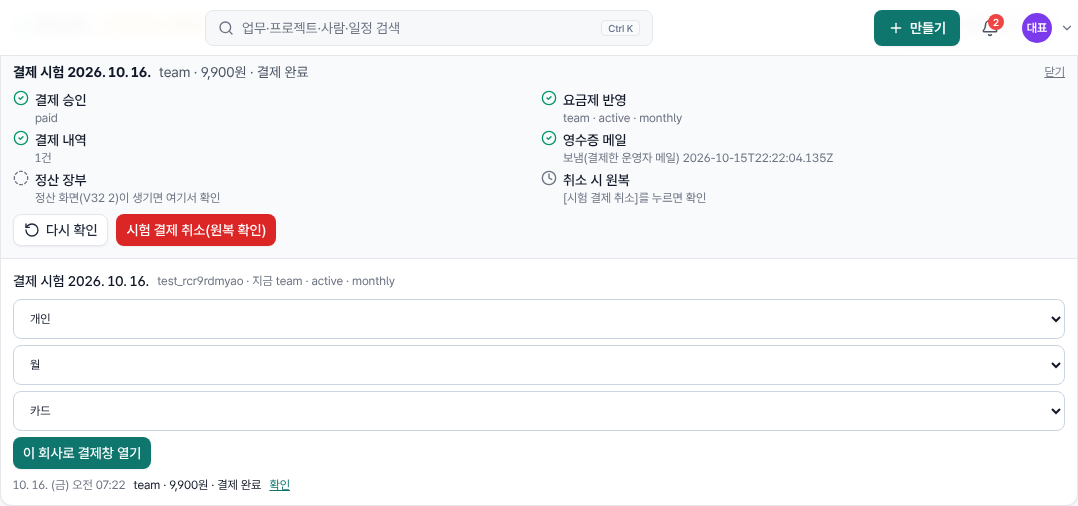
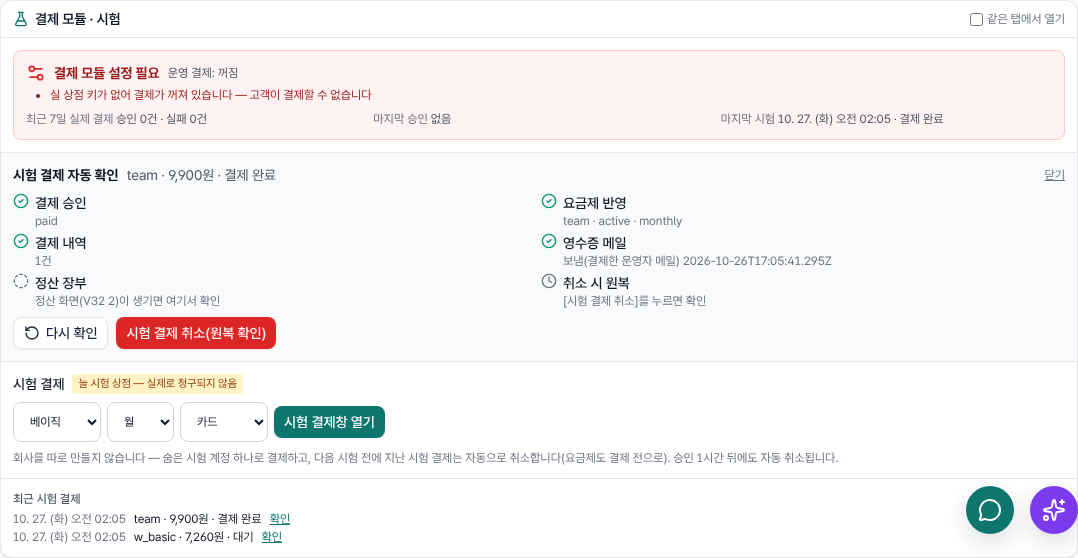
[배포확인요청][로컬요청] 192차: 결제 시험 화면 = 결제 모듈 상태 + [시험 결제]만 — 시험 회사 만들기·목록·지우기 없앰(숨은 시험 계정 하나를 다시 씀·다음 시험 전 지난 시험 결제 자동 취소) · 결제 시험 회사는 고객사 목록에서 뺌
대표 10/27 "결제 시험회사 숨겨도 됩니다. 결제 모듈 상태가 정상인지만 표기하는 걸 냅두고 그 밑에 테스트만 냅둡니다.
굳이 테스트 결제 회사를 추가해야 할 이유를 모르겠네요." (로컬 전달 #319)

① 결제 모듈 상태 (src/lib/billing/payTest.ts payStatus · PayTest.tsx StatusBox)
- 정상 · 확인 필요 · 설정 필요 + 사유 줄. 설정 필요 = 실 상점 키가 없어 결제가 꺼짐(npConf 없음).
  확인 필요 = 마지막 시험 결제 실패, 또는 최근 7일 안 실제 회사 결제가 실패로 끝나고 그 뒤 승인이 없음(결제창 닫음 = 대기라 빠짐).
- 운영 결제 방식(실 상점 — 실제 청구 / 시험 상점 — 고객 결제도 청구 안 됨 / 꺼짐) · 최근 7일 실제 결제 승인·실패 수 · 마지막 승인 · 마지막 시험.
  시험 회사 결제는 셈에서 뺌. 키 값은 응답에 없음.

② [시험 결제]만 (payTest.ts ensureTester·settleTester·payTestHome · /api/platform/pay-test/tester/window·live)
- 숨은 시험 계정 하나(app_settings pay_tester) — 처음 누를 때 만들고 다시 씀. 동시에 두 번 눌러도 하나(살아 있는 계정을 덮지 않고
  방금 만든 것은 숨김) · 지워졌으면 새로 만듦.
- 새 시험 결제창 전에 그 계정에 남은 승인 결제를 취소(요금제도 결제 전으로, 감사 billing.refund '다음 시험 전 자동 취소') —
  취소가 안 되는 결제가 있어도 시험은 막지 않음(1시간 자동 취소가 다시 시도).
- 요금제·주기·결제 수단 + [시험 결제창 열기] · [실결제 100원 시험](실 상점 키 있을 때, 하루 3번·1시간 뒤 자동 취소 그대로) ·
  같은 탭에서 열기(#413) 그대로 · 최근 시험 결제 10건 [확인] → 자동 확인·[시험 결제 취소] 그대로(회사 이름은 안 보임).
- 회사 만들기·회사 목록·[지우기] 화면 없앰. 옛 API(만들기·회사 id 경로·DELETE)는 남김.
- 선택 칸 3개가 한 줄 전체를 차지하던 것(w-auto 가 inputCls w-full 을 못 이김) → !w-auto.

③ 플랫폼 고객사 목록 (src/lib/platformAdmin.ts tenantDirectory)
- 결제 시험 회사(is_test)는 모두 뺌 — 숨긴 것만 빼던 #566 규칙을 넓힘. 결제 내역·정산에는 시험 표시로 남음.

시험: billing API 11/11(새 '192차': 상태 정상↔확인 필요·마지막 시험 실패·숨은 계정 만들기·다시 씀·지난 시험 결제 자동 취소·요금제 원복·
감사·고객사 목록 제외·실결제 100원 같은 계정·지워진 계정 새로·직원 404·키 값 없음) · pay-test-remove·platform-super·platform-admin·
[…]

diff --git a/src/components/PayTest.tsx b/src/components/PayTest.tsx
@@ -1,26 +1,40 @@
 'use client';
 import { useEffect, useState } from 'react';
 import { useSearchParams } from 'next/navigation';
-import { CheckCircle2, CircleDashed, Clock, FlaskConical, Loader2, Plus, RotateCcw, Trash2, XCircle } from 'lucide-react';
+import { AlertTriangle, CheckCircle2, CircleDashed, Clock, FlaskConical, Loader2, RotateCcw, Settings2, XCircle } from 'lucide-react';
 import { api, useApi } from './client';
 import { launchNicepay } from './Billing';
 import { Button, cx, fmtDateTime, inputCls, toast } from './ui';
 import { won } from './usage';
 
 /**
- * V32 1 결제 시험(플랫폼 운영자): 로그인 계정 없는 시험 회사 → 시험 상점 결제창(실 MID 안 씀) → 승인 뒤 자동 확인 → [시험 결제 취소]로 원복 확인.
- * 시험 카드 번호 입력은 대표가 직접. 시험 회사는 가입 퍼널·매출 집계·자동 결제에서 빠진다.
+ * 결제 시험(플랫폼 운영자) — 192차(대표 10/27 "결제 시험회사 숨겨도 됩니다. 결제 모듈 상태가 정상인지만 표기하는 걸 냅두고 그 밑에 테스트만 냅둡니다.
+ * 굳이 테스트 결제 회사를 추가해야 할 이유를 모르겠네요."): 위 = 결제 모듈 상태, 아래 = [시험 결제]만.
+ * 시험 결제는 숨은 시험 계정 하나로 — 회사 목록·만들기·지우기 없음, 다음 시험 전에 지난 시험 결제는 자동 취소(요금제도 결제 전으로).
+ * 승인 뒤 자동 확인·[시험 결제 취소](원복 확인)는 그대로. 시험 카드 번호 입력은 대표가 직접.
  */
 type Check = { key: string; label: string; state: 'ok' | 'fail' | 'wait' | 'later'; detail?: string };
+type Status = {
+  state: 'ok' | 'warn' | 'setup'; mode: 'live' | 'test' | 'off'; liveKeys: boolean; reasons: string[]; ok7: number; fail7: number; lastPaid: string | null;
+  lastFail: { msg: string | null; at: string } | null; lastTest: { id: string; status: string; at: string; msg: string | null; live: boolean } | null;
+};
+type Pay = { id: string; plan_code: string | null; addon_code: string | null; amount: number; status: string; live: boolean; result_msg: string | null; paid_at: string | null; created_at: string };
+type Home = { status: Status; payments: Pay[]; plans: { code: string; name: string }[]; liveAvailable?: boolean };
 const ICON = { ok: <CheckCircle2 className="size-4 text-emerald-600" />, fail: <XCircle className="size-4 text-red-600" />, wait: <Clock className="size-4 text-ink-3" />, later: <CircleDashed className="size-4 text-ink-3" /> };
 const ST: Record<string, string> = { pending: '대기', paid: '결제 완료', failed: '실패', canceled: '취소', partial_canceled: '부분 취소' };
+const STATE = {
+  ok: { label: '정상', box: 'border-emerald-200 bg-emerald-50', title: 'text-emerald-800', icon: <CheckCircle2 className="size-5 shrink-0 text-emerald-600" /> },
+  warn: { label: '확인 필요', box: 'border-amber-200 bg-amber-50', title: 'text-amber-900', icon: <AlertTriangle className="size-5 shrink-0 text-amber-600" /> },
+  setup: { label: '설정 필요', box: 'border-red-200 bg-red-50', title: 'text-red-800', icon: <Settings2 className="size-5 shrink-0 text-red-600" /> },
+} as const;
+const MODE = { live: '실 상점 — 실제로 청구됩니다', test: '시험 상점 — 고객 결제도 실제로 청구되지 않습니다', off: '꺼짐' } as const;
 
 export function PayTest() {
   const sp = useSearchParams();
-  const list = useApi<{ tenants: any[]; plans: { code: string; name: string }[]; liveAvailable?: boolean }>('/api/platform/pay-test');
+  const home = useApi<Home>('/api/platform/pay-test');
   const [checkId, setCheckId] = useState<string | null>(sp.get('check'));
   const [busy, setBusy] = useState(false);
-  const [pick, setPick] = useState<Record<string, { plan: string; kind: 'monthly' | 'annual'; pm: 'CARD' | 'BANK' | 'VBANK' }>>({});
+  const [pick, setPick] = useState<{ plan: string; kind: 'monthly' | 'annual'; pm: 'CARD' | 'BANK' | 'VBANK' }>({ plan: '', kind: 'monthly', pm: 'CARD' });
   // #413: PC 레이어(iframe)가 열리자마자 닫히는 환경 — 나이스페이 모바일 방식(MobileYN=Y)으로 같은 탭 이동. 바로 닫히면 자동으로 켠다
   const [pageMode, setPageMode] = useState(false);
   const [lastClose, setLastClose] = useState<{ code: string; message: string; quick: boolean; at: string } | null>(null);
@@ -29,88 +43,93 @@ export function PayTest() {
     if (sp.get('tab') === 'paytest') document.getElementById('paytest')?.scrollIntoView({ block: 'start' });
     const f = sp.get('payfail'); if (f) toast.error(`결제 실패: ${f}`);
   }, [sp]);
-  async function remove(t: any) { // #566: 시험 회사만, 결제 기록이 있으면 숨기기
-    if (!confirm(`'${t.name}' 시험 회사를 지울까요?\n결제 기록이 있으면 기록은 남기고 목록에서만 숨깁니다.`)) return;
-    setBusy(true);
-    try { const r = await api<{ mode: 'deleted' | 'hidden' }>(`/api/platform/pay-test/${encodeURIComponent(t.id)}`, { method: 'DELETE' }); list.reload(); toast.ok(r.mode === 'hidden' ? '결제 기록이 있어 목록에서 숨겼습니다(결제 내역은 남음)' : '지웠습니다'); } catch (e: any) { toast.error(e.message); } finally { setBusy(false); }
-  }
-  async function create() {
-    setBusy(true);
-    try { await api('/api/platform/pay-test', { body: {} }); list.reload(); toast.ok('결제 시험 회사를 만들었습니다'); } catch (e: any) { toast.error(e.message); } finally { setBusy(false); }
-  }
-  async function pay(t: any) {
-    const o = pick[t.id] ?? { plan: list.data?.plans[0]?.code ?? '', kind: 'monthly', pm: 'CARD' };
-    if (!o.plan) return;
+  const plan = pick.plan || home.data?.plans[0]?.code || '';
+  async function pay() {
+    if (!plan) return;
     setBusy(true);
     try {
-      const r = await api(`/api/platform/pay-test/${t.id}/window`, { body: { kind: o.kind, planCode: o.plan, payMethod: o.pm } });
+      const r = await api(`/api/platform/pay-test/tester/window`, { body: { kind: pick.kind, planCode: plan, payMethod: pick.pm } });
       if (r.mode !== 'test') throw new Error('시험 상점이 아닙니다 — 결제창을 열지 않습니다');
+      home.reload();
       await launch(r);
     } catch (e: any) { toast.error(e.message); } finally { setBusy(false); }
   }
   /** V36 8 실결제 소액 시험(대표 승인) — 실 상점 100원, 1시간 뒤 자동 취소 */
-  async function live(t: any) {
+  async function live() {
     const c = prompt('실제 카드로 100원이 결제됩니다(1시간 뒤 자동 취소, 하루 3번까지). 계속하려면 "실결제 100원" 을 입력하세요.');
     if (c === null) return;
     setBusy(true);
     try {
-      const r = await api(`/api/platform/pay-test/${t.id}/live`, { body: { confirm: c } });
+      const r = await api(`/api/platform/pay-test/tester/live`, { body: { confirm: c } });
       if (r.mode !== 'live' || Number(r.params.Amt) !== 100) throw new Error('실결제 소액 시험 조건이 아닙니다 — 결제창을 열지 않습니다');
+      home.reload();
       await launch(r);
     } catch (e: any) { toast.error(e.message); } finally { setBusy(false); }
   }
+  const pays = home.data?.payments ?? [];
   return (
     <section id="paytest" className="rounded-card border border-line bg-white shadow-card" data-testid="pay-test">
       <div className="flex flex-wrap items-center gap-2 border-b border-line px-3 py-2">
-        <h2 className="flex items-center gap-1.5 text-sm font-semibold"><FlaskConical className="size-4 text-brand-600" />결제 시험</h2>
-        <span className="rounded bg-amber-100 px-1.5 text-[11px] text-amber-800">늘 시험 상점 — 실제로 청구되지 않음</span>
+        <h2 className="flex items-center gap-1.5 text-sm font-semibold"><FlaskConical className="size-4 text-brand-600" />결제 모듈 · 시험</h2>
         <label className="ml-auto flex items-center gap-1 text-xs text-ink-3" title="결제창(레이어)이 열리자마자 닫히면 켜세요 — 이 탭이 나이스페이 결제 화면으로 이동했다가 결제 뒤 자동 확인 화면으로 돌아옵니다">
           <input type="checkbox" checked={pageMode} onChange={(e) => setPageMode(e.target.checked)} data-testid="pay-test-pagemode" />같은 탭에서 열기
         </label>
-        <Button size="sm" variant="secondary" onClick={create} disabled={busy} data-testid="pay-test-create"><Plus />결제 시험 회사 만들기</Button>
       </div>
+      {home.data ? <StatusBox s={home.data.status} /> : <p className="p-3 text-sm text-ink-3"><Loader2 className="inline size-4 animate-spin" /> 결제 모듈 상태 확인 중…</p>}
       {lastClose && (
-        <p className="border-b border-line bg-amber-50 px-3 py-1.5 text-xs text-amber-900" data-testid="pay-test-closed">
+        <p className="border-y border-line bg-amber-50 px-3 py-1.5 text-xs text-amber-900" data-testid="pay-test-closed">
           {lastClose.at} 결제창이 닫혔습니다 — {lastClose.message || (lastClose.quick ? '나이스페이가 바로 닫음(사유 없음)' : '취소')}{lastClose.code ? ` (${lastClose.code})` : ''}
           {lastClose.quick && ' · 같은 탭에서 열기를 켰습니다. 다시 눌러 보세요'}
         </p>
       )}
-      {checkId && <CheckPanel id={checkId} onClose={() => setCheckId(null)} onChanged={list.reload} />}
-      <ul className="divide-y divide-line text-sm">
-        {(list.data?.tenants ?? []).map((t) => {
-          const o = pick[t.id] ?? { plan: list.data?.plans[0]?.code ?? '', kind: 'monthly' as const, pm: 'CARD' as const };
-          const set = (p: Partial<typeof o>) => setPick({ ...pick, [t.id]: { ...o, ...p } });
-          return (
-            <li key={t.id} className="space-y-2 p-3" data-testid="pay-test-tenant">
-              <div className="flex flex-wrap items-center gap-2">
-                <b className="font-medium">{t.name}</b><span className="text-xs text-ink-3">{t.id} · 지금 {t.plan_code} · {t.status}{t.billing_cycle ? ` · ${t.billing_cycle}` : ''}</span>
-              </div>
-              <div className="flex flex-wrap items-center gap-1.5">
-                <select className={cx(inputCls, 'h-8 w-auto py-0 text-xs')} value={o.plan} onChange={(e) => set({ plan: e.target.value })} aria-label="요금제">
-                  {list.data?.plans.map((p) => <option key={p.code} value={p.code}>{p.name}</option>)}
-                </select>
-                <select className={cx(inputCls, 'h-8 w-auto py-0 text-xs')} value={o.kind} onChange={(e) => set({ kind: e.target.value as never })} aria-label="주기"><option value="monthly">월</option><option value="annual">연간</option></select>
-                <select className={cx(inputCls, 'h-8 w-auto py-0 text-xs')} value={o.pm} onChange={(e) => set({ pm: e.target.value as never })} aria-label="결제 수단"><option value="CARD">카드</option><option value="BANK">계좌이체</option><option value="VBANK">가상계좌</option></select>
-                <Button size="sm" onClick={() => pay(t)} disabled={busy} data-testid="pay-test-open">이 회사로 결제창 열기</Button>
-                {list.data?.liveAvailable && <Button size="sm" variant="danger" onClick={() => live(t)} disabled={busy} data-testid="pay-live-open">실결제 100원 시험</Button>}
-                <Button size="sm" variant="ghost" className="ml-auto text-red-600" onClick={() => remove(t)} disabled={busy} title="결제 기록이 있으면 기록은 남기고 목록에서만 숨깁니다" data-testid="pay-test-remove"><Trash2 />지우기</Button>
-              </div>
-              {(t.payments ?? []).length > 0 && (
-                <ul className="space-y-0.5 text-xs">
-                  {t.payments.map((p: any) => (
-                    <li key={p.id} className="flex flex-wrap items-center gap-2">
-                      <span className="text-ink-3">{fmtDateTime(p.paid_at ?? p.created_at)}</span><span>{p.live ? <b className="text-red-700">실결제 시험</b> : p.plan_code ?? p.addon_code} · {won(p.amount)} · {ST[p.status] ?? p.status}</span>
-                      <button type="button" className="text-brand-600 underline" onClick={() => setCheckId(p.id)}>확인</button>
-                    </li>
-                  ))}
-                </ul>
-              )}
-            </li>
-          );
-        })}
-        {list.data && !list.data.tenants.length && <li className="p-3 text-ink-3">시험 회사가 없습니다 — [결제 시험 회사 만들기]</li>}
-      </ul>
+      {checkId && <CheckPanel id={checkId} onClose={() => setCheckId(null)} onChanged={home.reload} />}
+      <div className="space-y-2 border-t border-line p-3" data-testid="pay-test-run">
+        <p className="flex flex-wrap items-center gap-2 text-sm font-medium">시험 결제<span className="rounded bg-amber-100 px-1.5 text-[11px] font-normal text-amber-800">늘 시험 상점 — 실제로 청구되지 않음</span></p>
+        <div className="flex flex-wrap items-center gap-1.5">
+          <select className={cx(inputCls, 'h-8 !w-auto py-0 text-xs')} value={plan} onChange={(e) => setPick({ ...pick, plan: e.target.value })} aria-label="요금제">
+            {home.data?.plans.map((p) => <option key={p.code} value={p.code}>{p.name}</option>)}
+          </select>
+          <select className={cx(inputCls, 'h-8 !w-auto py-0 text-xs')} value={pick.kind} onChange={(e) => setPick({ ...pick, kind: e.target.value as never })} aria-label="주기"><option value="monthly">월</option><option value="annual">연간</option></select>
+          <select className={cx(inputCls, 'h-8 !w-auto py-0 text-xs')} value={pick.pm} onChange={(e) => setPick({ ...pick, pm: e.target.value as never })} aria-label="결제 수단"><option value="CARD">카드</option><option value="BANK">계좌이체</option><option value="VBANK">가상계좌</option></select>
+          <Button size="sm" onClick={pay} disabled={busy || !plan} data-testid="pay-test-open">시험 결제창 열기</Button>
+          {home.data?.liveAvailable && <Button size="sm" variant="danger" onClick={live} disabled={busy} data-testid="pay-live-open">실결제 100원 시험</Button>}
+        </div>
+        <p className="text-xs text-ink-3">회사를 따로 만들지 않습니다 — 숨은 시험 계정 하나로 결제하고, 다음 시험 전에 지난 시험 결제는 자동으로 취소합니다(요금제도 결제 전으로). 승인 1시간 뒤에도 자동 취소됩니다.</p>
+      </div>
+      <div className="border-t border-line p-3" data-testid="pay-test-recent">
+        <p className="mb-1 text-xs font-medium text-ink-2">최근 시험 결제</p>
+        {pays.length ? (
+          <ul className="space-y-0.5 text-xs">
+            {pays.map((p) => (
+              <li key={p.id} className="flex flex-wrap items-center gap-2" data-testid="pay-test-row">
+                <span className="text-ink-3">{fmtDateTime(p.paid_at ?? p.created_at)}</span>
+                <span>{p.live ? <b className="text-red-700">실결제 100원</b> : p.plan_code ?? p.addon_code} · {won(p.amount)} · {ST[p.status] ?? p.status}{p.status === 'failed' && p.result_msg ? ` — ${p.result_msg}` : ''}</span>
+                <button type="button" className="text-brand-600 underline" onClick={() => setCheckId(p.id)}>확인</button>
+              </li>
+            ))}
+          </ul>
+        ) : <p className="text-xs text-ink-3">{home.data ? '아직 시험 결제가 없습니다 — [시험 결제창 열기]' : ''}</p>}
+      </div>
     </section>
+  );
+}
+
+/** 결제 모듈 상태 — 정상·확인 필요·설정 필요 + 운영 결제 방식 · 최근 7일 실제 결제 · 마지막 승인 · 마지막 시험 */
+function StatusBox({ s }: { s: Status }) {
+  const st = STATE[s.state];
+  return (
+    <div className={cx('m-3 rounded-lg border p-3', st.box)} data-testid="pay-status" data-state={s.state} data-mode={s.mode}>
+      <div className="flex flex-wrap items-center gap-x-2 gap-y-1">
+        {st.icon}<b className={cx('text-sm', st.title)}>결제 모듈 {st.label}</b>
+        <span className="text-xs text-ink-2" data-testid="pay-status-mode">운영 결제: {MODE[s.mode]}</span>
+      </div>
+      {s.reasons.length > 0 && <ul className={cx('mt-1 list-disc space-y-0.5 pl-6 text-xs', st.title)} data-testid="pay-status-reasons">{s.reasons.map((r) => <li key={r}>{r}</li>)}</ul>}
+      <dl className="mt-2 grid gap-x-4 gap-y-0.5 text-xs text-ink-2 sm:grid-cols-3">
+        <div><dt className="inline text-ink-3">최근 7일 실제 결제 </dt><dd className="inline" data-testid="pay-status-week">승인 {s.ok7}건 · 실패 {s.fail7}건</dd></div>
+        <div><dt className="inline text-ink-3">마지막 승인 </dt><dd className="inline">{s.lastPaid ? fmtDateTime(s.lastPaid) : '없음'}</dd></div>
+        <div><dt className="inline text-ink-3">마지막 시험 </dt><dd className="inline" data-testid="pay-status-test">{s.lastTest ? `${fmtDateTime(s.lastTest.at)} · ${s.lastTest.live ? '실결제 100원 · ' : ''}${ST[s.lastTest.status] ?? s.lastTest.status}` : '없음'}</dd></div>
+      </dl>
+    </div>
   );
 }
 
@@ -122,11 +141,11 @@ function CheckPanel({ id, onClose, onChanged }: { id: string; onClose: () => voi
     setBusy(true);
     try { await api(`/api/platform/payments/${id}/refund`, { body: { reason: '시험 결제 취소', revertPlan: true } }); toast.ok('취소했습니다'); c.reload(); onChanged(); } catch (e: any) { toast.error(e.message); } finally { setBusy(false); }
   }
-  if (!c.data) return <div className="p-3 text-sm text-ink-3"><Loader2 className="inline size-4 animate-spin" /> 확인 중…</div>;
+  if (!c.data) return <div className="border-t border-line p-3 text-sm text-ink-3"><Loader2 className="inline size-4 animate-spin" /> 확인 중…</div>;
   const p = c.data.payment;
   return (
-    <div className="space-y-2 border-b border-line bg-slate-50 p-3" data-testid="pay-test-check">
-      <div className="flex flex-wrap items-center gap-2 text-sm"><b>{p.tenantName}</b><span className="text-ink-2">{p.plan} · {won(p.amount)} · {ST[p.status] ?? p.status}</span>
+    <div className="space-y-2 border-t border-line bg-slate-50 p-3" data-testid="pay-test-check">
+      <div className="flex flex-wrap items-center gap-2 text-sm"><b>시험 결제 자동 확인</b><span className="text-ink-2">{p.plan} · {won(p.amount)} · {ST[p.status] ?? p.status}</span>
         <button type="button" className="ml-auto text-xs text-ink-3 underline" onClick={onClose}>닫기</button></div>
       {p.vbank && p.status === 'pending' && <p className="text-xs text-amber-800">가상계좌 {p.vbank.bank} {p.vbank.num} — 입금 통보가 오면 결제 완료로 바뀝니다</p>}
       <ul className="grid gap-1 sm:grid-cols-2">

diff --git a/src/lib/billing/payTest.ts b/src/lib/billing/payTest.ts
@@ -65,6 +65,84 @@ export async function removeTestTenant(u: SessionUser, tenant: string, ip: strin
   return { ok: true, mode };
 }
 
+/**
+ * 192차(대표 10/27 "결제 시험회사 숨겨도 됩니다. 결제 모듈 상태가 정상인지만 표기하는 걸 냅두고 그 밑에 테스트만 냅둡니다. 굳이 테스트 결제 회사를 추가해야 할 이유를 모르겠네요."):
+ * 시험 결제는 고정 시험 회사 하나로(처음 한 번만 만들고 다시 씀 — 화면에는 회사 목록이 없음). 새 시험 결제창을 열기 전에 그 회사에 남은 승인 결제를 취소해
+ * '결제 전 요금제'가 늘 시험 전 상태가 되게 한다. 화면 위에는 결제 모듈 상태(운영 결제 방식·실 상점 키·최근 승인·실패·마지막 시험 결과)
+ */
+const TESTER_KEY = 'pay_tester';
+export async function testerId(sql: ReturnType<typeof db> = db()): Promise<string | null> {
+  const [s] = await sql<{ value: any }[]>`select value from app_settings where key = ${TESTER_KEY}`;
+  const id = s?.value?.tenant ? String(s.value.tenant) : null;
+  if (!id) return null;
+  const [t] = await sql`select 1 from tenants where id = ${id} and is_test and deleted_at is null`;
+  return t ? id : null;
+}
+export async function ensureTester(u: SessionUser, ip: string | null): Promise<string> {
+  requirePlatform(u);
+  const sql = db();
+  const have = await testerId(sql); if (have) return have;
+  const t = await createTestTenant(u, { name: '결제 시험(고정)' }, ip);
+  // 동시에 두 번 눌러도 하나만: 저장된 시험 회사가 살아 있으면 덮지 않고, 방금 만든 회사는 숨김
+  const [saved] = await sql`insert into app_settings (key, value) values (${TESTER_KEY}, ${sql.json({ tenant: t.id } as never)})
+    on conflict (key) do update set value = excluded.value, updated_at = now()
+      where not exists (select 1 from tenants x where x.id = app_settings.value->>'tenant' and x.is_test and x.deleted_at is null) returning key`;
+  if (saved) return t.id;
+  await sql`update tenants set status = 'deleted', deleted_at = now() where id = ${t.id} and is_test`;
+  return (await testerId(sql)) ?? t.id;
+}
+/** 고정 시험 회사에 남은 승인 결제(취소 안 된 것)를 취소 — 요금제도 결제 전으로. 취소가 안 되는 결제가 있어도 시험은 막지 않음(1시간 자동 취소가 다시 시도) */
+export async function settleTester(u: SessionUser, tenant: string, ip: string | null) {
+  const sql = db();
+  const left = await sql<{ id: string }[]>`select id from payments where tenant = ${tenant} and status in ('paid', 'partial_canceled') order by created_at desc`;
+  if (!left.length) return { canceled: 0, failed: 0 };
+  const { refundPayment } = await import('./index');
+  let canceled = 0; let failed = 0;
+  for (const p of left) { try { await refundPayment(u, p.id, { reason: '다음 시험 전 자동 취소', revertPlan: true }, ip); canceled++; } catch { failed++; } }
+  return { canceled, failed };
+}
+/**
+ * 결제 모듈 상태 — 운영 결제 방식(실 상점·시험 상점·꺼짐) · 실제 회사 결제(시험 회사 제외)의 최근 7일 승인·실패 · 마지막 승인 · 마지막 시험 결과.
+ *  설정 필요 = 실 상점 키가 없어 결제가 꺼짐 · 확인 필요 = 마지막 시험 결제가 실패했거나, 최근 7일 안 실제 결제가 실패로 끝나고 그 뒤 승인이 없음
+ *  (실패 = 승인 단계 실패·자동 결제 실패 — 결제창을 닫은 것은 대기로 남아 빼짐)
+ */
+export async function payStatus() {
+  const sql = db();
+  const { npConf, npLiveConf } = await import('./nicepay');
+  const conf = npConf();
+  const mode: 'live' | 'test' | 'off' = conf ? conf.mode : 'off';
+  const [r] = await sql<{ ok7: number; fail7: number; last_paid: Date | null }[]>`select
+      count(*) filter (where p.status in ('paid', 'canceled', 'partial_canceled') and p.paid_at > now() - interval '7 days')::int as ok7,
+      count(*) filter (where p.status = 'failed' and p.created_at > now() - interval '7 days')::int as fail7,
+      max(p.paid_at) as last_paid
+    from payments p join tenants t on t.id = p.tenant where not t.is_test`;
+  const [lf] = await sql<{ msg: string | null; at: Date }[]>`select p.result_msg as msg, p.created_at as at from payments p join tenants t on t.id = p.tenant
+    where not t.is_test and p.status = 'failed' order by p.created_at desc limit 1`;
+  const [lt] = await sql<{ id: string; status: string; at: Date; msg: string | null; live: boolean }[]>`select p.id, p.status, coalesce(p.paid_at, p.updated_at, p.created_at) as at, p.result_msg as msg,
+      coalesce((p.meta->>'liveSmoke') = 'true', false) as live from payments p join tenants t on t.id = p.tenant where t.is_test and p.status <> 'pending' order by coalesce(p.paid_at, p.updated_at, p.created_at) desc limit 1`;
+  const failOpen = !!lf && Date.now() - new Date(lf.at).getTime() < 7 * 86_400_000 && (!r.last_paid || new Date(r.last_paid) < new Date(lf.at));
+  const reasons: string[] = [];
+  if (mode === 'off') reasons.push('실 상점 키가 없어 결제가 꺼져 있습니다 — 고객이 결제할 수 없습니다');
+  if (lt?.status === 'failed') reasons.push(`마지막 시험 결제가 실패했습니다${lt.msg ? ` — ${lt.msg}` : ''}`);
+  if (failOpen) reasons.push(`최근 실제 결제가 실패로 끝났고 그 뒤 승인이 없습니다${lf?.msg ? ` — ${lf.msg}` : ''}`);
+  const state: 'ok' | 'warn' | 'setup' = mode === 'off' ? 'setup' : reasons.length ? 'warn' : 'ok';
+  return { state, mode, liveKeys: !!npLiveConf(), reasons, ok7: r.ok7, fail7: r.fail7, lastPaid: r.last_paid, lastFail: lf ? { msg: lf.msg, at: lf.at } : null,
+    lastTest: lt ? { id: lt.id, status: lt.status, at: lt.at, msg: lt.msg, live: lt.live } : null };
+}
+/** 결제 시험 화면 한 번에: 상태 · 고정 시험 회사(없으면 null — 처음 [시험 결제] 때 만듦) · 최근 시험 결제 10건 · 요금제 */
+export async function payTestHome(u: SessionUser) {
+  requirePlatform(u);
+  const sql = db();
+  const tester = await testerId(sql);
+  const [sub] = tester ? await sql<any[]>`select plan_code, status, billing_cycle from tenant_subscriptions where tenant = ${tester}` : [];
+  const payments = await sql`select p.id, p.kind, p.plan_code, p.addon_code, p.amount, p.status, coalesce((p.meta->>'liveSmoke') = 'true', false) as live, p.canceled_amount, p.result_msg, p.paid_at, p.created_at,
+      p.meta->>'payMethod' as pay_method, coalesce((p.meta->>'window') = 'true', false) as via_window
+    from payments p join tenants t on t.id = p.tenant where t.is_test order by p.created_at desc limit 10`;
+  const old = await listTestTenants(u);
+  return { status: await payStatus(), tester: tester ? { id: tester, plan_code: sub?.plan_code ?? null, status: sub?.status ?? null, billing_cycle: sub?.billing_cycle ?? null } : null,
+    payments, plans: old.plans, liveAvailable: old.liveAvailable, tenants: old.tenants };
+}
+
 type Check = { key: string; label: string; state: 'ok' | 'fail' | 'wait' | 'later'; detail?: string };
 /** 결제 뒤 자동 확인 */
 export async function testCheck(u: SessionUser, paymentId: string) {

diff --git a/src/lib/platformAdmin.ts b/src/lib/platformAdmin.ts
@@ -46,7 +46,7 @@ export async function tenantDirectory(u: SessionUser, q: { q?: string; status?: 
       (select coalesce(sum(a.cost_krw), 0)::float8 from ai_usage a where a.tenant = t.id and a.created_at >= date_trunc('month', now() at time zone 'Asia/Seoul') at time zone 'Asia/Seoul') as ai_krw
     from tenants t left join users ow on ow.id = t.owner_user_id left join tenant_subscriptions ts on ts.tenant = t.id
     where (${term} = '' or t.name ilike ${like} or t.id ilike ${like} or coalesce(ow.email, '') ilike ${like})
-      and not (t.is_test and t.deleted_at is not null) -- #566 숨긴 결제 시험 회사는 목록에서 뺌(결제 기록은 결제 내역에 남음)
+      and not t.is_test -- #566·192차(대표 10/27 '결제 시험회사 숨겨도 됩니다') 결제 시험 회사는 고객사 목록에서 뺌(결제 기록은 결제 내역·정산에 시험 표시로 남음)
       and (${q.status ?? ''} = '' or t.status = ${q.status ?? ''} or (${q.status ?? ''} = 'trial' and ts.status in ('trial', 'expired')) or (${q.status ?? ''} = 'deleting' and t.delete_scheduled_at is not null))
       and (${q.segment ?? ''} = '' or coalesce(t.segment, 'customer') = ${q.segment ?? ''}) -- #656 구분(설계 파트너/일반)
     order by (t.id in ('default', 'demo')) desc, t.created_at desc limit 300`;

diff --git a/src/app/api/platform/pay-test/[tenant]/live/route.ts b/src/app/api/platform/pay-test/[tenant]/live/route.ts
@@ -1,5 +1,11 @@
 import { handler, body, clientIp } from '@/lib/api';
 import { liveSmokeInput, platformLiveSmoke } from '@/lib/billing';
+import { ensureTester, settleTester } from '@/lib/billing/payTest';
 
-/** V36 8 실결제 소액 시험(100원·운영자·시험 회사·하루 3회·1시간 뒤 자동 취소) */
-export const POST = handler<{ tenant: string }>(async ({ req, user, params }) => platformLiveSmoke(user, params.tenant, await body(req, liveSmokeInput), req.nextUrl.origin, clientIp(req)));
+/** V36 8 실결제 소액 시험(100원·운영자·시험 회사·하루 3회·1시간 뒤 자동 취소) · 192차 tenant = 'tester' 면 고정 시험 회사 */
+export const POST = handler<{ tenant: string }>(async ({ req, user, params }) => {
+  const i = await body(req, liveSmokeInput);
+  let tenant = params.tenant;
+  if (tenant === 'tester') { tenant = await ensureTester(user, clientIp(req)); await settleTester(user, tenant, clientIp(req)); }
+  return platformLiveSmoke(user, tenant, i, req.nextUrl.origin, clientIp(req));
+});

diff --git a/src/app/api/platform/pay-test/[tenant]/window/route.ts b/src/app/api/platform/pay-test/[tenant]/window/route.ts
@@ -1,5 +1,11 @@
-import { handler, body } from '@/lib/api';
+import { handler, body, clientIp } from '@/lib/api';
 import { platformTestWindow, windowInput } from '@/lib/billing';
+import { ensureTester, settleTester } from '@/lib/billing/payTest';
 
-/** V32 1 이 시험 회사로 결제창(시험 상점 강제) */
-export const POST = handler<{ tenant: string }>(async ({ req, user, params }) => platformTestWindow(user, params.tenant, await body(req, windowInput), req.nextUrl.origin));
+/** V32 1 이 시험 회사로 결제창(시험 상점 강제) · 192차 tenant = 'tester' 면 고정 시험 회사(처음이면 만듦) — 남은 승인 결제를 먼저 취소 */
+export const POST = handler<{ tenant: string }>(async ({ req, user, params }) => {
+  const i = await body(req, windowInput);
+  let tenant = params.tenant;
+  if (tenant === 'tester') { tenant = await ensureTester(user, clientIp(req)); await settleTester(user, tenant, clientIp(req)); }
+  return platformTestWindow(user, tenant, i, req.nextUrl.origin);
+});

diff --git a/src/app/api/platform/pay-test/route.ts b/src/app/api/platform/pay-test/route.ts
@@ -1,6 +1,6 @@
 import { handler, body, clientIp } from '@/lib/api';
-import { createTestTenant, listTestTenants, testTenantInput } from '@/lib/billing/payTest';
+import { createTestTenant, payTestHome, testTenantInput } from '@/lib/billing/payTest';
 
-/** V32 1 결제 시험 회사 목록·만들기(플랫폼 운영자) */
-export const GET = handler(async ({ user }) => listTestTenants(user));
+/** 192차: 결제 시험 화면 — 결제 모듈 상태 · 고정 시험 회사 · 최근 시험 결제(플랫폼 운영자). tenants = 예전 시험 회사 목록(화면에는 안 씀) */
+export const GET = handler(async ({ user }) => payTestHome(user));
 export const POST = handler(async ({ req, user }) => createTestTenant(user, await body(req, testTenantInput), clientIp(req)));

diff --git a/TEST_REPORT.md b/TEST_REPORT.md
@@ -1,7 +1,9 @@
 # 시험 보고서
 
 최종 실행: 2026-10-13 (UTC) · 클라우드 개발 환경 (Node 22, PostgreSQL 16, Chromium 141)
-요약 (2026-10-27 191차: 입찰 적합 판정 정정(대표 10/27 "스크린 골프나 골프연습장 설치 및 공사는 저희가 하지 않습니다. 운영만 합니다" · "커뮤니티 센터 통합관리시스템 구축 … 이건 하이링크지") + 관련 줄이 입찰 목록에 안 보이던 버그(로컬 10/27 01:00·01:10) — ① 다짐 = 운영·위탁만: 제목에 설치·시공·공사·교체·렌탈·장비·기구·리모델링·보수·시스템·구축·구입·시설개선 등이 있으면 골프·헬스·커뮤니티라도 다짐 아님(제목·분류에 운영·위탁·임대·사용 허가 낱말이 함께 있을 때만 다짐) · 하이링크 '타석'은 관제·시스템 낱말이 있을 때만 · 제목의 '커뮤니티(센터) … 시스템' = 하이링크 · 즉시 검토 낱말에서 스크린골프·타석 뺌 ② 다시 판정(수집기 실행 때·플랫폼 [다시 판정]) = 먼저 내리기: 관련 줄의 저장 판정에 이번 규칙이 뺀 사업이 있으면 그 사업을 빼고, 185차 다시 판정이 올린 줄은 지금 규칙으로 관련이 아니면 '관련 아님'(분류 '참고(비관련)'·다시 찾은 공고 표시 지움·까닭 기록) — 원본 복사 줄도. 진행 기록 걸린 줄은 내려도 목록에 남음 · 그다음 올리기(185차) ③ 다시 판정이 관련 아님 줄을 순서 없이 2만 줄까지만 보던 것 → 5천 줄씩 끝까지 ④ 입찰 목록·현황·재계약·일정이 모든 공고(K-apt 전체 등)의 최신 2만 줄을 읽은 뒤 관련을 고르던 것 → 관련 줄·진행 기록 줄만 DB에서 바로 읽음(관련 원본 복사 줄이 읽기 상한 밖으로 밀려 안 보이던 원인 후보) ⑤ 원본 매일 복사가 워크인이 판정한 줄(judged_at)의 판정 칸을 원본 값으로 되돌리지 않음 · 전환 대조는 판정 바꾼 줄도 복사된 줄로 셈 ⑥ 플랫폼 공고 조회: listCheck(조회한 사람 회사 입찰 목록에 들어가는지·빠진 단계 read/filter/skip) · 지금 규칙의 뺀 사업과 까닭 · 아파트장터 번호는 앞 'A' 없이도 찾음 · 마이그레이션 없음
+요약 (2026-10-27 192차: 플랫폼 결제 시험 화면 단순화(대표 10/27 "결제 시험회사 숨겨도 됩니다. 결제 모듈 상태가 정상인지만 표기하는 걸 냅두고 그 밑에 테스트만 냅둡니다. 굳이 테스트 결제 회사를 추가해야 할 이유를 모르겠네요.") — ① 위 = 결제 모듈 상태(정상·확인 필요·설정 필요): 운영 결제 방식(실 상점·시험 상점·꺼짐)·최근 7일 실제 결제 승인/실패·마지막 승인·마지막 시험 · 확인 필요 = 마지막 시험 결제 실패 또는 최근 7일 실제 결제가 실패로 끝나고 그 뒤 승인 없음(사유 줄) · 설정 필요 = 실 상점 키 없음 ② 아래 = [시험 결제]만(요금제·주기·결제 수단 + [시험 결제창 열기]·[실결제 100원 시험]) — 회사 만들기·목록·지우기 없앰, 숨은 시험 계정 하나(app_settings pay_tester, 처음 누를 때 만듦·동시에 눌러도 하나·지워졌으면 새로)를 다시 씀, 다음 시험 전에 지난 시험 결제 자동 취소(요금제도 결제 전으로, 취소 실패는 시험을 막지 않음·1시간 자동 취소가 다시) ③ 최근 시험 결제 10건·[확인] 자동 확인 그대로 ④ 결제 시험 회사는 플랫폼 고객사 목록에서 모두 뺌(결제 내역·정산에는 시험 표시로 남음) · API /api/platform/pay-test/tester/window·live(옛 회사 id 경로·만들기 API 는 그대로).
+시험: billing API 11/11(새 '192차' — 상태 정상↔확인 필요(실제 결제 실패 → 그 뒤 승인)·마지막 시험 실패·숨은 계정 만들기·다시 씀·지난 시험 결제 자동 취소·요금제 원복·감사·고객사 목록 제외·실결제 100원 같은 계정·지워진 계정 새로·직원 404·키 값 응답 없음) · pay-test-remove·platform-super·platform-admin·platform-crm 포함 33/33 · tenancy·scenarios·ai-company-budget·ai-limits·capture-block 194/194 · E2E 'V10 사용량·요금제(결제 시험 자동 확인·#413 결제창 닫힘)' + 새 '192차 결제 시험 화면' 2/2 · typecheck·lint·build 통과.
+확인 못함: 운영 화면의 실제 결제 모듈 상태 값(운영 결제 방식·최근 결제)과 실제 시험 상점 결제창(카드 입력은 대표 직접) — 구조 시험 통과, 실제 연동 미확인.) · 앞선 요약 (2026-10-27 191차: 입찰 적합 판정 정정(대표 10/27 "스크린 골프나 골프연습장 설치 및 공사는 저희가 하지 않습니다. 운영만 합니다" · "커뮤니티 센터 통합관리시스템 구축 … 이건 하이링크지") + 관련 줄이 입찰 목록에 안 보이던 버그(로컬 10/27 01:00·01:10) — ① 다짐 = 운영·위탁만: 제목에 설치·시공·공사·교체·렌탈·장비·기구·리모델링·보수·시스템·구축·구입·시설개선 등이 있으면 골프·헬스·커뮤니티라도 다짐 아님(제목·분류에 운영·위탁·임대·사용 허가 낱말이 함께 있을 때만 다짐) · 하이링크 '타석'은 관제·시스템 낱말이 있을 때만 · 제목의 '커뮤니티(센터) … 시스템' = 하이링크 · 즉시 검토 낱말에서 스크린골프·타석 뺌 ② 다시 판정(수집기 실행 때·플랫폼 [다시 판정]) = 먼저 내리기: 관련 줄의 저장 판정에 이번 규칙이 뺀 사업이 있으면 그 사업을 빼고, 185차 다시 판정이 올린 줄은 지금 규칙으로 관련이 아니면 '관련 아님'(분류 '참고(비관련)'·다시 찾은 공고 표시 지움·까닭 기록) — 원본 복사 줄도. 진행 기록 걸린 줄은 내려도 목록에 남음 · 그다음 올리기(185차) ③ 다시 판정이 관련 아님 줄을 순서 없이 2만 줄까지만 보던 것 → 5천 줄씩 끝까지 ④ 입찰 목록·현황·재계약·일정이 모든 공고(K-apt 전체 등)의 최신 2만 줄을 읽은 뒤 관련을 고르던 것 → 관련 줄·진행 기록 줄만 DB에서 바로 읽음(관련 원본 복사 줄이 읽기 상한 밖으로 밀려 안 보이던 원인 후보) ⑤ 원본 매일 복사가 워크인이 판정한 줄(judged_at)의 판정 칸을 원본 값으로 되돌리지 않음 · 전환 대조는 판정 바꾼 줄도 복사된 줄로 셈 ⑥ 플랫폼 공고 조회: listCheck(조회한 사람 회사 입찰 목록에 들어가는지·빠진 단계 read/filter/skip) · 지금 규칙의 뺀 사업과 까닭 · 아파트장터 번호는 앞 'A' 없이도 찾음 · 마이그레이션 없음
 시험: 새 API tests/api/sales-fit-191 3/3(판정 규칙 — 골프 3건 관련 아님·커뮤니티센터 통합관리시스템 구축·출입통제장치 공사 = 하이링크만·위탁운영 그대로·A 번호 조회 / 다시 판정 — 원본 복사 골프 3건 내림(분류·다시 찾은 공고 지움·까닭)·다짐·하이링크 → 하이링크·관련 아님 2건 올림·원본 판정 줄 그대로·진행 기록 줄은 목록에 남음·오늘 새 공고·당일 메일에 골프 공고 없음·감사·두 번째는 0건 / 관련 아님 줄 20,005개를 쌓아도 관련 원본 복사 줄이 목록·검색에 나옴·다시 판정이 끝 쪽 줄까지 올림·listCheck listed·대상 아님 skip) · sales-kapt-185 기대값(골프 3건 null·통합관리시스템 '하이링크')·sales-migrate(판정 칸 유지·원본 값) 고침 · 영업·플랫폼 API 23개 파일 109/109 · E2E 입찰 같은 제목·사전규격 묶음·당일 공고 메일·앱 영업 4/4 · typecheck·lint·build 통과
 확인 못함: 운영 DB에서 골프 3건이 실제로 내려가는지·출입카드리더기·홈오토 재공고가 목록에 나오는지(배포 뒤 [다시 판정] 또는 다음 수집 실행과 플랫폼 조회 listCheck 로 확인) — 구조 시험 통과, 실제 연동 미확인.) · 앞선 요약 (2026-10-27 190차: 마케팅 브랜드 키트 [AI로 채우기](대표 #689 '브랜드 키트를 AI 마케터가 자동 제작하는 버튼') — ① 자동 제작 › 브랜드 키트 브랜드마다 [AI로 채우기]: 회사 소개(AI 프로필)·회사 정보(상호별 전화·주소·누리집)·이 브랜드의 승인·게시 글(8개까지)·마케팅 공간 자료실 문서 가운데 브랜드 이름이 든 것(4개까지 — 기밀 파일·기밀 폴더·AI 대화 첨부·매출 자료 제외, 메일 주소는 가려서)·이 브랜드 사진의 AI 설명·로고를 근거로 소개·주력 상품·말투 한 줄·말투 프로필·금지어·사실 카드(전화·링크·누리집·주소·운영 시간·요금·숫자·다른 이름·블로그 검색 키워드)·주제 20개·피드 틀 성격·바탕 색·표지 머리말 후보를 한 번에 초안으로(AI 요청 1회, 저장하지 않음) ② 근거 대조: 사실 칸은 재료에 그대로 있는 값만 남김(전화는 숫자, 누리집·링크는 주소, 시간·요금·숫자는 숫자마다, 검색 키워드는 앞 지역 낱말) — 못 찾은 것은 빼고 '재료에서 확인하지 못해 뺀 것'으로 보여 줌 · 소개·상품 문장도 재료에 없는 숫자나 다른 브랜드 이름이 들면 그 문장을 뺌 · 주제·머리말 후보에서 다른 브랜드 이름·숫자 뺌 · 금지어에 표시광고 위험 말(최고·1위·유일·최초·100%·무조건·완벽·국내 최대·보장) 함께 ③ 색: 지금 정한 색(피드 틀·영상 끝 화면·브랜드 색)이 있으면 그대로, 없으면 로고에서 뽑은 색, 그것도 없으면 AI 제안(흰 글자가 읽히는 진한 색만) ④ 화면: 초안 패널에서 칸마다 체크(비어 있던 칸만 처음에 켜짐 — 이미 적힌 칸은 그대로) · 고쳐 쓰기 · 표지 머리말 후보는 고르지 않으면 지금처럼 AI 가 글마다(결정 15-26) · 피드 틀을 고르면 '정기 자동 시안이 초안 보관 없이 승인함으로' 안내 · [고른 칸 저장] = 기존 브랜드 키트 저장(사실 카드는 합치고 금지어·주제 풀은 뒤에 더함) + 감사 기록 mkt.brand_kit_ai(고른 칸 이름) · 저장 뒤 키트 칸들을 새 값으로 다시 그림 · 마이그레이션 없음
 시험: 새 API tests/api/mkt-kit-190 3/3(직원 403·공간 밖 404·없는 브랜드 404·재료 없음 400(AI 안 부름) / 재료 → AI 1회 · 마케팅 공간 문서는 재료로(메일 가림)·기밀 문서·업무 공간 문서는 안 감 · 소개에서 재료에 없는 숫자 문장 뺌 · 상품에서 다른 브랜드 줄 뺌 · 사실 칸 대조(링크·숫자·다른 이름 1개·검색 키워드 1개 뺌) · 주제·머리말 거름 · 로고 색 · 저장 안 함 / 고른 칸만 저장·사실 카드 합치기·주제 더하기·틀·바탕 색·감사 기록 · 색 출처(지금 색·AI 진한 색·밝은 색은 제안 안 함)) · 새 E2E '190차 브랜드 키트 AI로 채우기'(근거·뺀 것 표시 → 비어 있던 칸만 체크 → 소개 고치기·머리말 후보 → 저장 → 칸들 새 값·감사 기록 → 390 넘침 없음) 1/1 · 마케팅·자료실 API 47개 파일 182/182 · typecheck·lint·build 통과

diff --git a/docs/handoff/LOCAL_LOG.md b/docs/handoff/LOCAL_LOG.md
@@ -573,6 +573,7 @@
 - 2026-10-27 [클라우드] [배포확인요청][로컬요청] 189차 — 마케팅 실사 참고 생성(#685)·#621 AI 다시 만들기: ① 서버 시안에서 실사가 모자라 브랜드 색으로 남은 칸(표지·카드뉴스 장·스토리 프레임, 행동 장 빼고)을 같은 브랜드 실사(얼굴 안 보이는 사진)를 참고로 실사풍 생성 → 그 칸만 다시 그린 새 버전(한 글 2장까지 · 주·월 크레딧 한도 안 · 그사이 글이 바뀌면 안 붙임) ② 회사 설정 '사진이 모자라면 실사 참고로 생성(크레딧)' 기본 꺼짐 — 켜면 정기 실행이, 아니면 관리자가 콘텐츠 상세 '빈 사진 칸' 상자 [빈 칸 생성으로 채우기]→[지금 확인] ③ 사진 AI 설명 목록 [AI로 다시 만들기](관리자·얼굴 없는 사진만·원본 그대로) ④ 생성 사진은 자료실 '마케팅/AI 생성(실사 참고)' · 사진 기록 'AI 생성(실사 참고)' ⑤ 플랫폼 운영 › 생성 연동 모델 표에 '참고 사진 칸' · 고객사 응답엔 서비스 이름·모델 없음. 마이그레이션 209(추가형). 함께: 188차 CI 1489·1490 빨간불은 코드 문제가 아니라 KST 23시대에 도는 시각 의존 시험 2건(메신저 일정 카드·마감 임박 알림) — 시각을 고정해 고침. 로컬 요청: ① 대표 계정 Higgsfield 문서·콘솔에서 '참고 사진(이미지)을 받는 이미지 모델'과 그 입력 칸 이름(예: image_url, 목록이면 input_images[] 처럼 끝에 [])을 확인해 플랫폼 운영 › 생성 연동 › 모델 표의 그 모델 '참고 사진 칸'에 입력·저장 — 비어 있으면 기능은 꺼진 채 '사진 생성이 아직 준비되지 않았습니다'로 보임 ② 입력 뒤 대표 확인을 받고 한 글에서만 [빈 칸 생성으로 채우기] 1번(이미지 2장 ≈ 모델 표 크레딧 ×2) → 1~3분 뒤 [지금 확인] → 새 버전·사진 기록·자료실 '마케팅/AI 생성(실사 참고)' 사진 품질(얼굴·글자 없는지) 확인 ③ 회사 설정 켜기는 대표 결정(돈이 드는 일, 기본 꺼짐 · 자동 생성 일시정지가 켜져 있으면 켜도 정기 실행은 안 돎) ④ 사진 AI 설명에서 [AI로 다시 만들기] 1장 시험. 확인 못함: 실제 생성 서비스 참고 사진 칸·결과 품질 — 구조 시험 통과, 실제 연동 미확인.
 - 2026-10-27 [클라우드] [배포확인요청][로컬요청] 190차 — 브랜드 키트 [AI로 채우기](대표 #689): ① 자동 제작 › 브랜드 키트 브랜드마다 [AI로 채우기] → 회사 소개·회사 정보·이 브랜드 승인·게시 글·마케팅 공간 자료실 문서(브랜드 이름이 든 것, 기밀 제외·메일 가림)·사진 설명·로고를 근거로 소개·상품·말투·금지어·사실 카드·주제 20개·피드 틀 성격·바탕 색·표지 머리말 후보 초안(AI 요청 1회, 저장 안 함) ② 사실 칸(전화·링크·누리집·주소·시간·요금·숫자·다른 이름·검색 키워드)은 재료에 그대로 있는 값만 — 못 찾은 것은 '재료에서 확인하지 못해 뺀 것'으로 보여 줌 · 소개·상품도 재료에 없는 숫자·다른 브랜드 이름 문장은 뺌 ③ 칸마다 체크(이미 적힌 칸은 처음에 꺼짐)·고쳐서 [고른 칸 저장] — 금지어·주제 풀은 뒤에 더하고 사실 카드는 합침, 감사 기록 ④ 표지 머리말은 후보만(고르지 않으면 지금처럼 AI 가 글마다 — 결정 15-26). 마이그레이션 없음. 로컬 요청: ① 대표와 함께 마케팅 › 자동 제작 › 브랜드 키트에서 키트가 비어 있는 브랜드 하나로 [AI로 채우기] → 근거 줄(글·문서 수)·뺀 것·소개·주제 20개가 브랜드에 맞는지 확인 → 맞는 칸만 체크해 [고른 칸 저장] ② '피드 틀 성격'을 저장하면 그 브랜드 정기 자동 시안이 초안 보관 없이 승인함으로 간다는 점을 대표가 알고 고르기(체크를 끄면 그대로) ③ 저장 뒤 그 브랜드 시안 1건([시안 세트] 또는 다음 정기 실행)에 소개·주제·말투가 반영되는지 PC·휴대폰 확인. 확인 못함: 실제 AI 초안 품질·실제 자료실 문서에서 사실을 얼마나 찾는지 — 구조 시험 통과, 실제 연동 미확인.
 - 2026-10-27 [클라우드] [배포확인요청][로컬요청] 191차 — 입찰 적합 판정 정정(대표 10/27)·관련 줄 목록 누락(로컬 01:00·01:10): ① 다짐 = 운영·위탁만(제목에 설치·시공·공사·렌탈·장비·리모델링·보수·시스템·구축 등 → 골프·헬스라도 다짐 아님, 운영·위탁 낱말이 함께면 다짐) · 시스템 구축 = 하이링크만 ② 다시 판정이 먼저 내림: 이번 규칙이 뺀 사업 빼기·185차가 올린 줄 되돌리기(원본 복사 줄 포함, 진행 기록 줄은 목록에 남음) 뒤 올리기 ③ 다시 판정이 2만 줄까지만 보던 것 → 끝까지 ④ 입찰 목록이 모든 공고 최신 2만 줄을 읽고 관련을 고르던 것 → 관련·진행 기록 줄만 바로 읽음 ⑤ 원본 매일 복사가 워크인 판정을 되돌리지 않음 ⑥ 플랫폼 공고 조회 listCheck(목록 포함 여부·빠진 단계)·A 번호. 마이그레이션 없음. 로컬 요청: ① 배포 확인 뒤 플랫폼 운영에서 POST /api/platform/sales-notices {refit:true} 한 번(대표 계정) → 결과의 lowered·changed·raised 숫자 기록 ② 조회 GET ?no= 로 골프 3건(20261023183942531·20261023103647191·20261023163607068) = related false·refitLoweredWhy, 커뮤니티센터 통합관리시스템(20261026153718356)·출입통제장치 공사(20261023114158368) = 하이링크·listCheck listed, 출입카드리더기(20261023140627810)·홈오토 재공고(20261023133052575 — A 없이) = listCheck listed 인지 ③ listCheck 가 listed 인데도 목록에 안 보이면 그 결과(step·why)를 보내 주세요 ④ 플랫폼 영업관리 이전 화면에서 '매일 차이분 가져오기'가 켜져 있는지(켜져 있으면 끌지 대표 판단) 확인. 확인 못함: 운영 DB 실제 결과 — 구조 시험 통과, 실제 연동 미확인.
+- 2026-10-27 [클라우드] [배포확인요청][로컬요청] 192차 — 결제 시험 화면(대표 10/27 '결제 모듈 상태 + 그 밑에 테스트만, 시험 회사 추가 이유 없음'): 플랫폼 운영 › 요금·결제 › '결제 모듈 · 시험' = 위 상태 상자(정상·확인 필요·설정 필요 + 운영 결제 방식·최근 7일 실제 결제·마지막 승인·마지막 시험) + 아래 [시험 결제]만 · 시험 회사 만들기·목록·지우기 없앰(숨은 시험 계정 하나를 다시 씀, 다음 시험 전 지난 시험 결제 자동 취소) · 결제 시험 회사는 고객사 목록에서 모두 뺌. 로컬 요청: ① 운영 /platform → 요금·결제 → '결제 모듈 · 시험' 상태 상자가 무엇으로 나오는지(정상/확인 필요/설정 필요, 운영 결제 방식 줄) 사진 1장 ② 대표가 [시험 결제창 열기] → 시험 카드 결제 → 자동 확인 → [시험 결제 취소] 한 번(시험 상점, 실제 청구 없음) ③ 플랫폼 고객사 목록에 결제 시험 회사가 더는 안 보이는지. 확인 못함: 운영 상태 값·실제 시험 결제창.
 - 2026-10-26 [클라우드] [배포확인요청] 176차 — 171·173차 CI 빨간불 원인 2가지 바로잡음: ① 캘린더 종일 칸 설정이 창 폭이 640 을 넘나들 때 PC 값(꺼짐)을 휴대폰 키에 덮어쓰던 실제 버그(휴대폰 보기 종일 줄이 꺼진 채 시작) → 사람이 바꿀 때만 저장·폭 바뀌면 다시 읽음 ② 실기기 83 시트 버튼 줄 1px 여유. 로컬 확인 요청: 없음(운영 화면 변화는 'PC 창을 좁혔다 넓혀도 휴대폰 종일 줄 설정이 안 꺼짐'뿐). CI 결과는 클라우드가 확인.
 - 2026-10-25 [클라우드] [배포확인요청] 149차 — #599 새 고객사 시뮬레이션(시험 서버 E2E: 가입 → 온보딩 → 첫 화면 → 공간 켜기 → 데이터 설정 → 마케팅 → 자동 제작 → 사용량 → 알림 → API 8개, 캡처 281~295) 명세 §3 결과: 내부 이름 0건 · 키 없는 수집기 7개 = '신청 필요'+[방법 보기] · '채널 연결 3단계' · 첫날 알림 0건 · 사용량 원화만. #602 공통 함수 customerScope(seesInternals = 슈퍼관리자 또는 내부 테넌트): 수집기·사용량·자동 제작·마케팅 홈·AI 예산 응답에서 원인·원가·달러·모델·외부 서비스 이름·원천 주소·공용 실행 기록 제거 + 고객 문구 사전 + 금지 낱말 자동 검사(API 5/5·E2E 발견 0건). P0 버그 수정: 새 회사 첫 로그인·온보딩 끝 직후 흰 화면+로고(수화 오류로 실행 애니메이션 덮개가 안 걷힘) → Modal 마운트 뒤 포털·IntroGuard·CSS 안전장치. 마이그레이션 없음(200 그대로). 로컬 요청: ① 운영에서 새 회사 가입(대표 결정 범위 안에서) → 확인 링크 → 첫 화면이 흰 화면 없이 뜨는지, 온보딩 [완료] 직후도 ② 고객사 계정으로 영업 › 데이터 설정(상태 칩 4가지·[방법 보기]·키 이름/주소/오류 원문 없음)·마케팅 › 자동 제작(글 모델 등급 이름만)·관리 › 사용량(원화·%·횟수만) ③ 내부 테넌트(우리 회사)에서는 예전처럼 전부 보이는지 ④ 공개 요금표(/api/public/ai-plans·소개 사이트)의 단가 표시는 그대로 두었음 — 대표 결정 필요하면 알려 주세요.
 - 2026-10-25 [클라우드] [배포확인요청] 148차 — #592 ② 휴대폰 캘린더 주 보기 밀도(명세 §2): 시간 칸 주 40/3일 48/일 64 → 한 화면 약 15시간, 블록 11px 중간 굵기·줄 수 블록 높이만큼, 좁은 블록 앞머리 [태그] 떼기(부재 종류 유지), 종일 줄 기본 켬(2줄 + '+n개' → 그날 목록), 미팅 단추 둥근 48px·아래로 밀면 숨김, 휴대폰 머리줄 한 줄(월▾·보기 전환·‹›·오늘·+). 견적서 공급자 긴 주소 두 줄(로컬 15:45). 마이그레이션 없음(200 그대로). 로컬 요청: ① 대표 휴대폰(390~412px) 주 보기 — 08~22시가 한 화면에, [다짐 문의] 업무가 내용부터 2줄로, 종일 칩이 날짜 머리 아래 바로, + 단추가 칸을 안 가리고 아래로 밀면 숨는지(명세 §3 2~5) ② 3일·일 보기 칸 높이·일 보기는 제목 그대로 ③ 견적서 미리보기(hilink) 공급자 주소 두 줄 ④ 명세 §3 1·6(구글 11건·중복 정리)은 가져오기를 대표가 취소(#604)해 하지 않음 — 워크인에 직접 넣은 일정만 보임.
